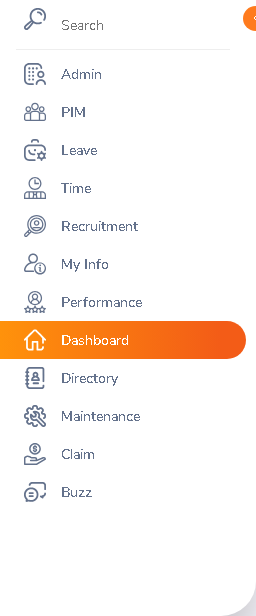
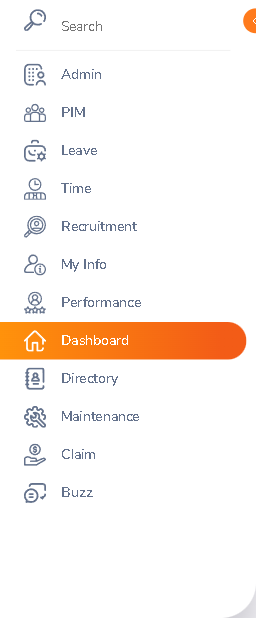
first commit

diff --git a/playwright.config.ts b/playwright.config.ts
@@ -44,6 +44,9 @@ export default defineConfig({
     trace: "retain-on-failure",
     screenshot: "only-on-failure",
     video: "retain-on-failure",
+    extraHTTPHeaders: {
+      "ngrok-skip-browser-warning": "true",
+    },
   },
 
   /* Configure projects for major browsers */

diff --git a/tests/global.setup.ts b/tests/global.setup.ts
@@ -14,6 +14,8 @@ test("global setup for auto login", async ({
   const dec_password_data = commonUtilsFixture.decryptData(password);
 
   await loginPageFixture.gotoOrangeHrm();
+  await page.waitForURL(/auth\/login/);
+  await page.locator('input[name="username"]').waitFor({ state: "visible" });
   await loginPageFixture.loginOrangeHrm(dec_userName_data, dec_password_data);
   await expect(dashBoardFixture.dashBoardText).toBeVisible();
   await page.context().storageState({